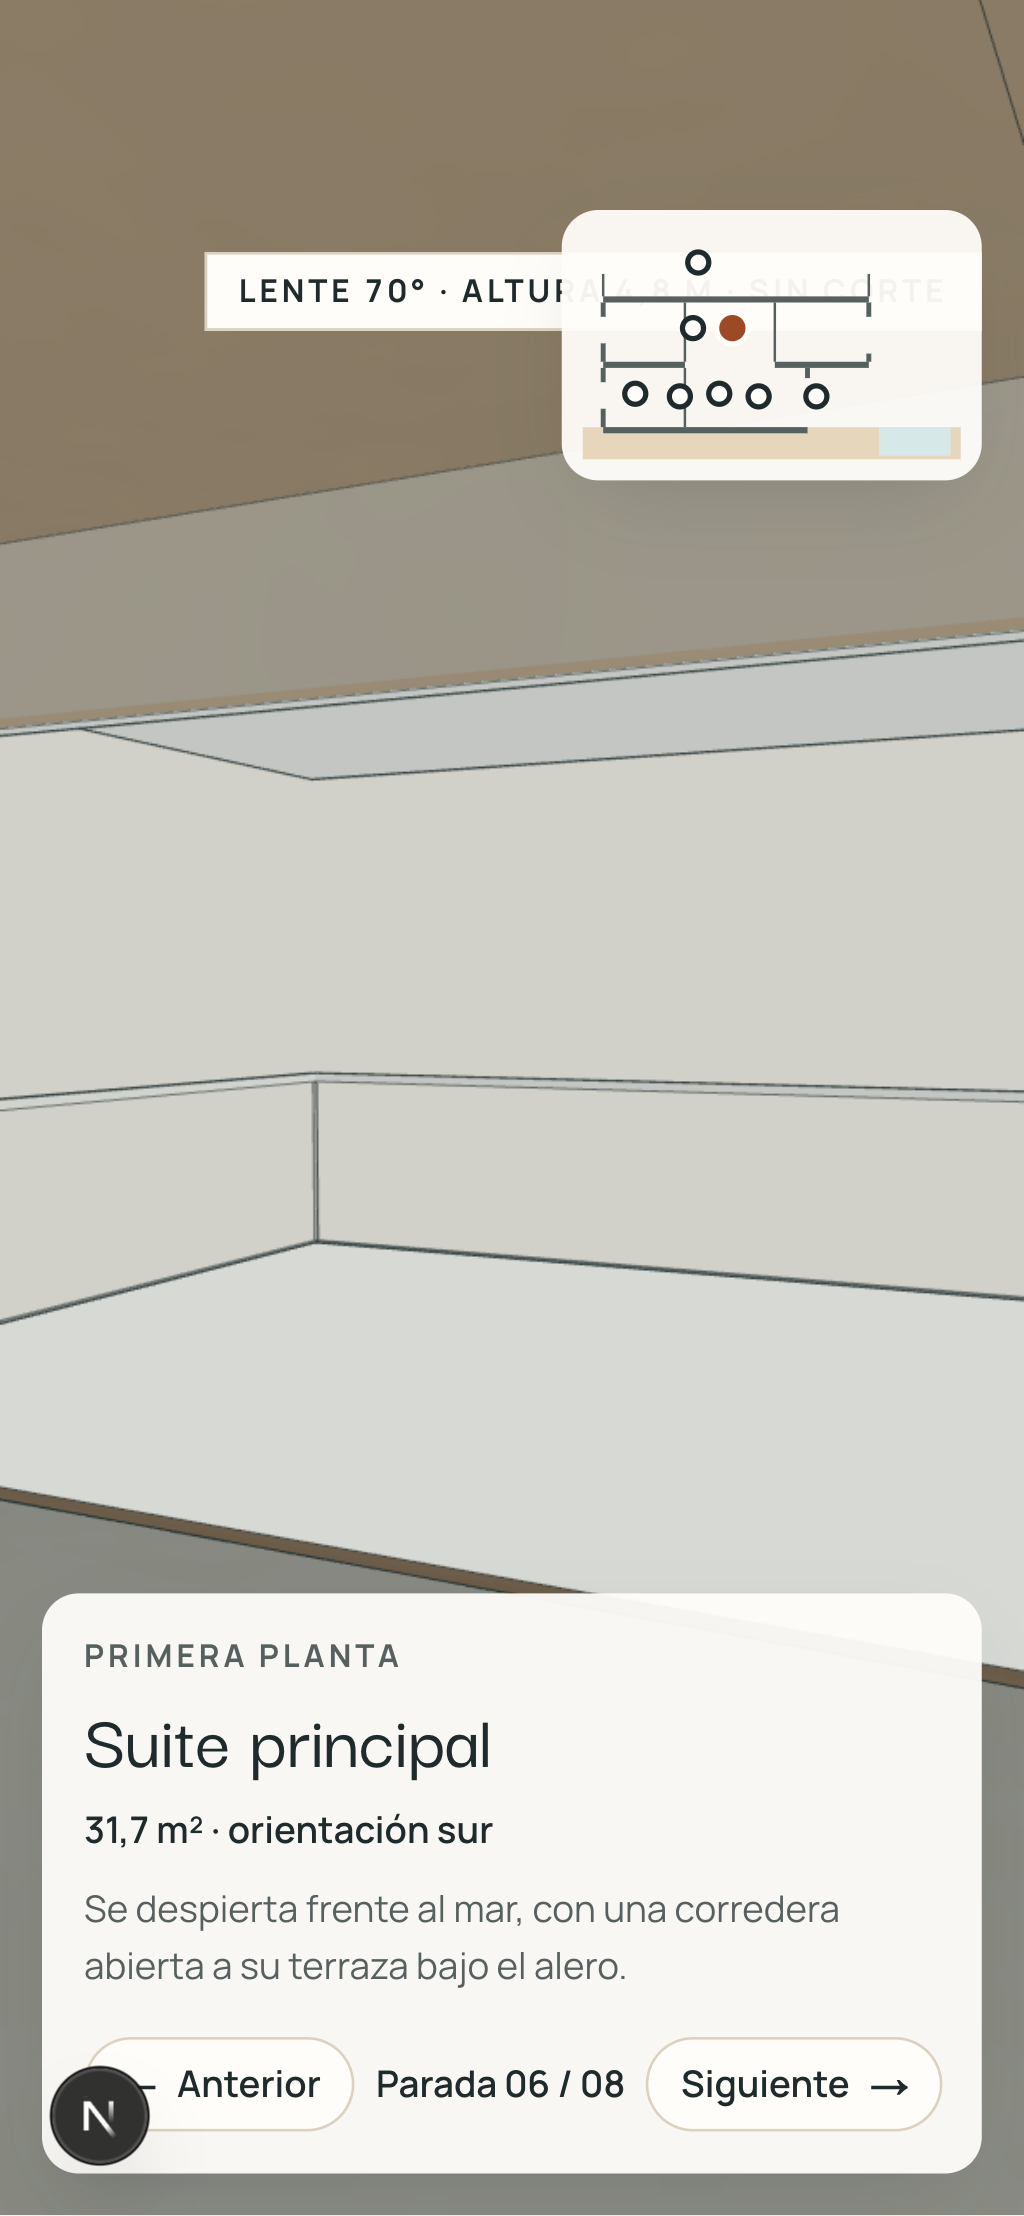
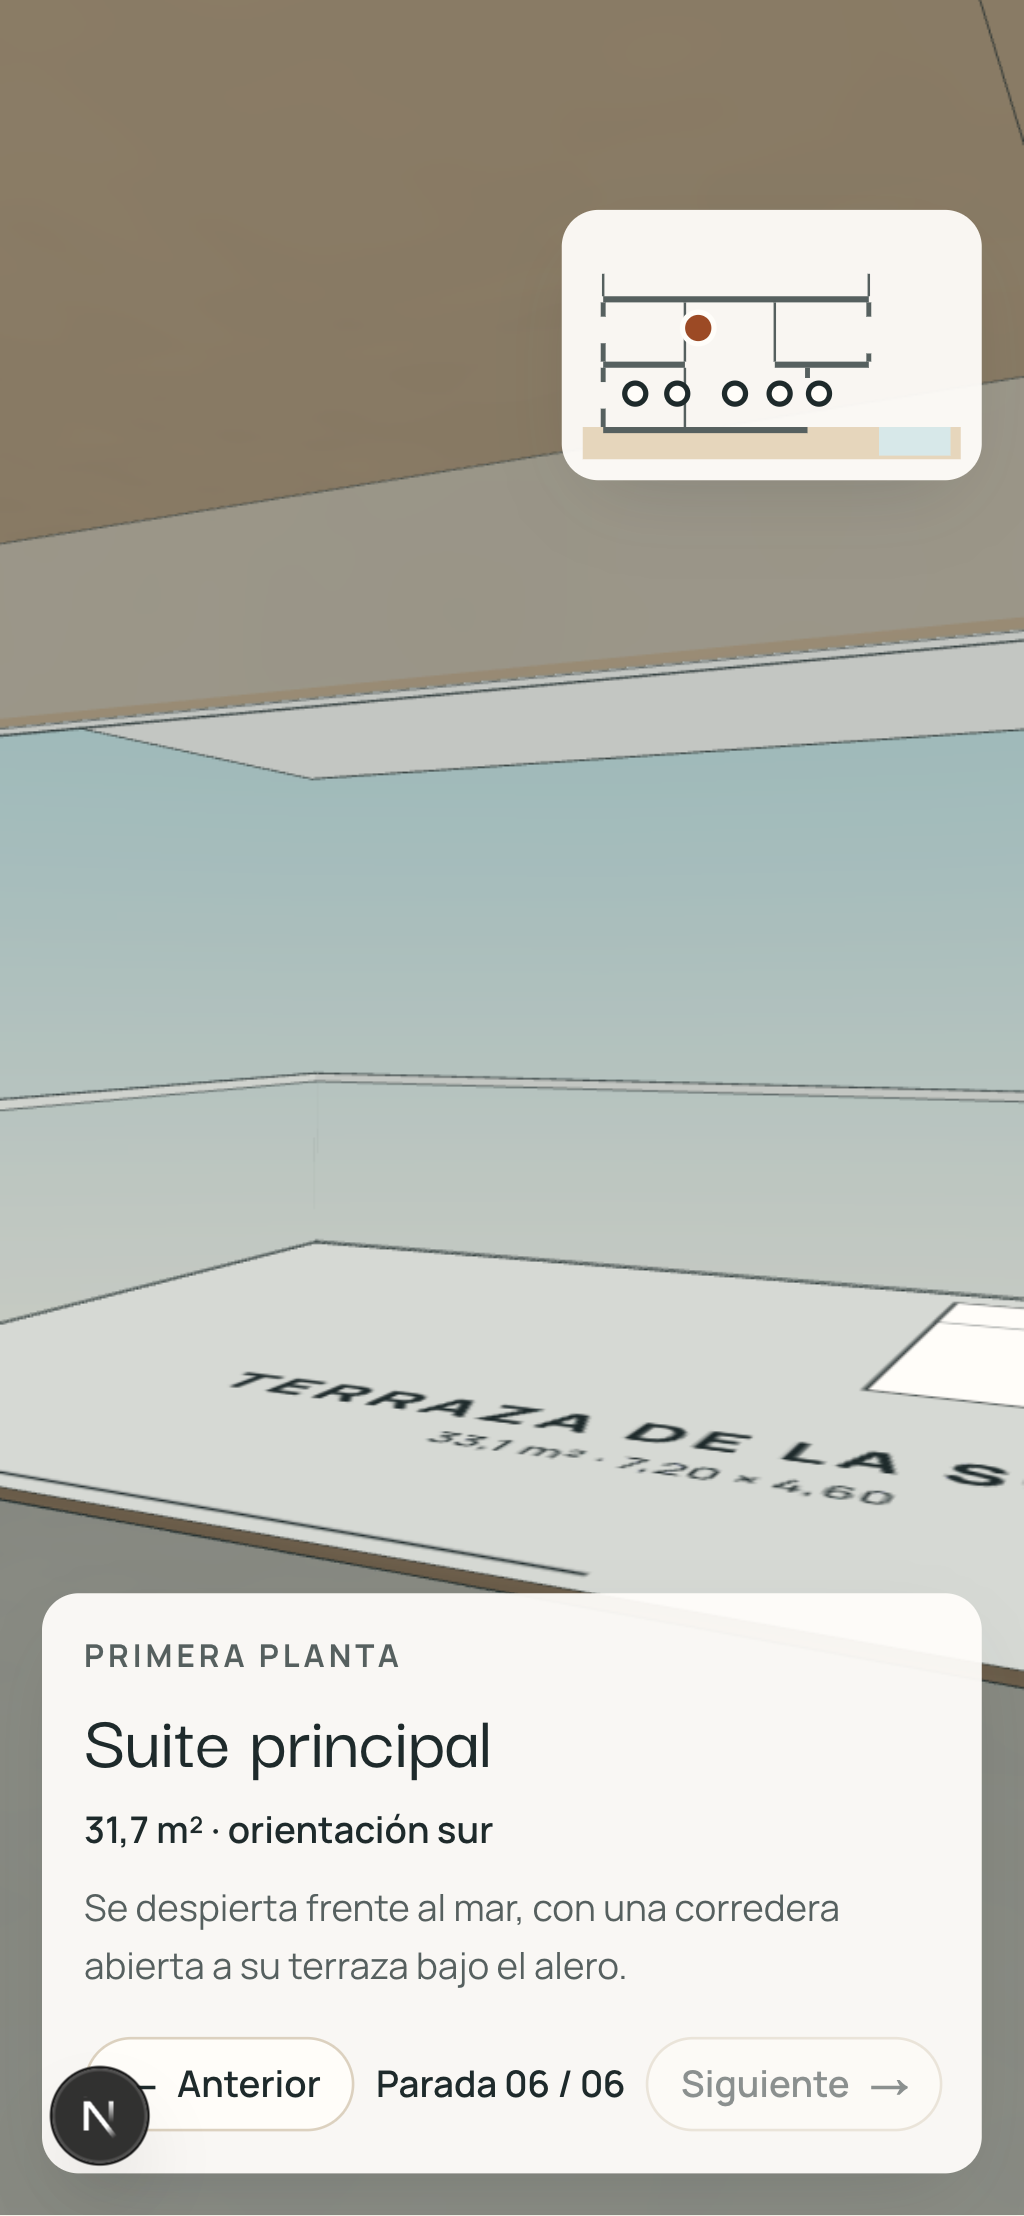
docs: Villa Mar's six stops and the drawn sheet in CLAUDE.md; captures of the sheet, the walk and the finale, on desktop and mobile, in Día and Noche (#48)

diff --git a/CLAUDE.md b/CLAUDE.md
@@ -20,8 +20,8 @@ Hilo narrativo: llegas a la costa, eliges tu casa y la recorres por dentro.
 
 No son panorámicas 360° ni clips de vídeo: el tour es la cámara recorriendo la maqueta 3D en tiempo real, controlada por scroll (ADR 0009, ADR 0010). Referencia: Casa Larga (https://sam1983aing.github.io/casa-larga/).
 
-- Arranca como la hoja: la planta baja vista desde arriba con una lente de 2°, que se lee como un plano en tinta sobre papel. Sube la altura de corte y crecen los muros; la cámara se inclina, la lente se abre y baja, sin saltos, hasta la altura de los ojos delante de la puerta de entrada.
-- Entra andando por la puerta, que se abre, y recorre en un solo plano secuencia las paradas de todas las plantas (Villa Mar: recibidor, salón, comedor y cocina, escalera, galería, suite principal, azotea, porche y piscina), y sale a la casa entera en color. La cámara solo gira estando parada, anda recta y siempre por los huecos, a paso constante.
+- Arranca como la hoja: la planta baja vista desde arriba con una lente de 2°, que se lee como un plano de arquitecto en papel (ejes con burbujas, cotas, rótulos con m² y medidas, muebles en planta, puertas con su barrido, cajetín con escala y norte). Sube la altura de corte y crecen los muros; la cámara se inclina, la lente se abre y baja, sin saltos, hasta la altura de los ojos delante de la puerta de entrada.
+- Entra andando por la puerta, que se abre, y recorre en un solo plano secuencia las paradas de todas las plantas (Villa Mar: recibidor, salón, porche y piscina, comedor y cocina, escalera y suite principal), por rutas calculadas desde el plano, y al final se eleva sobre la casa entera en color. La cámara solo gira estando parada, anda recta y siempre por los huecos, a paso constante.
 - El barrido convierte la tinta en materiales y luz mediterránea (mediodía en Día, atardecer con las luces encendidas en Noche) estancia a estancia, al cruzar su umbral; lo que aún no se ha pisado sigue en tinta.
 - En cada parada, una cartela abajo a la izquierda ("Salón · 38 m² · orientación sur" y una frase) y un localizador con el corte en miniatura. Arriba a la derecha, el HUD de la cámara: «Lente · Altura · Corte». Anterior / siguiente, flechas del teclado e «Ir a las plantas».
 - Al final, elegir planta: las de encima se apartan, la planta aparece como plano dibujado (ejes, cotas, nombre, m² y medidas de cada estancia) y el barrido la convierte en 3D. Pulsar una estancia lleva dentro, a la altura de los ojos; una lista de estancias por planta lo hace accesible con teclado.
